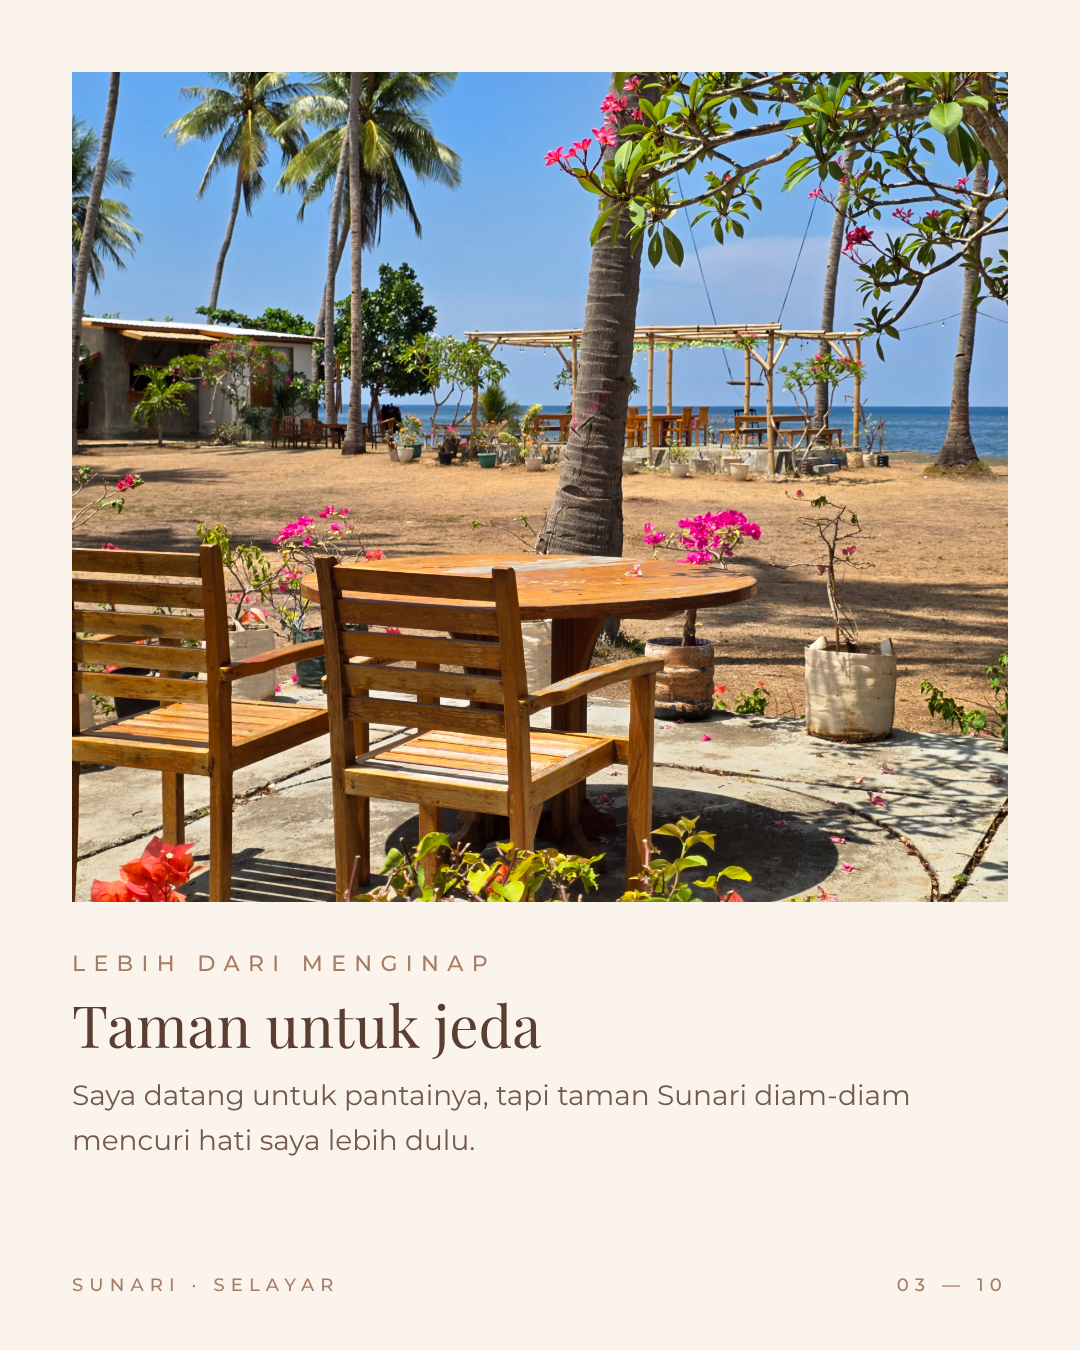
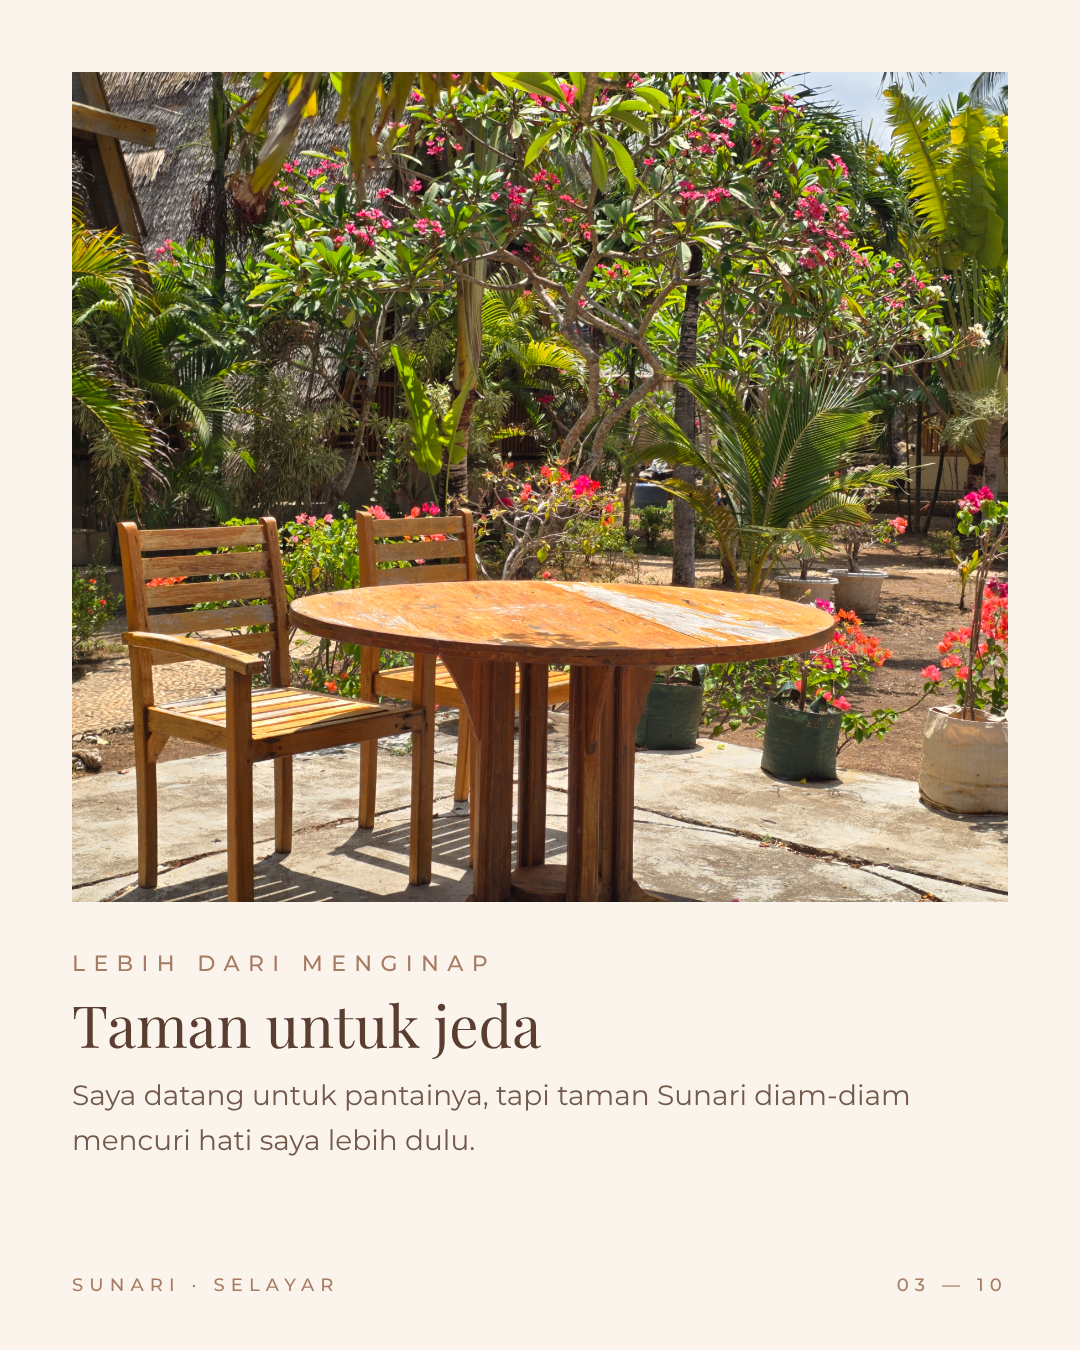
Lebih dari Menginap: slide 3 pakai foto taman kamboja
Claude-Session: https://claude.ai/code/session_01KeLc5cK8xRmfcoMz1j2mcH

diff --git a/social/kit.html b/social/kit.html
@@ -572,7 +572,7 @@ body{background:#ddd6cc;font-family:Montserrat,sans-serif;padding:40px;display:f
   <div class="foot"><span class="caps">SunaRi · Selayar</span><span class="caps">02 — 10</span></div>
 </div>
 <div class="tpl" id="p01-3">
-  <img class="ph" src="../assets/photos/taman/05-meja-taman-view-laut-gazebo.jpg" style="object-position:50% 55%" alt="">
+  <img class="ph" src="../assets/photos/taman/08-meja-taman-kamboja-a.jpg" style="object-position:50% 60%" alt="">
   <div class="txt"><div class="caps">Lebih dari Menginap</div><h2>Taman untuk jeda</h2><p>Saya datang untuk pantainya, tapi taman Sunari diam-diam mencuri hati saya lebih dulu.</p></div>
   <div class="foot"><span class="caps">SunaRi · Selayar</span><span class="caps">03 — 10</span></div>
 </div>

diff --git a/social/build_kit.py b/social/build_kit.py
@@ -372,7 +372,7 @@ parts.append(f'''<div class="tpl facts" id="faq-{NF}">
 FEED12 = [
  ("p01", "Lebih dari Menginap", "camp-1", [
    ("pantai/01-nelayan-pagi.jpg","50% 58%","Pagi yang pelan","Perahu nelayan mulai pulang dari laut, membawa hasil tangkapan dan senyum yang tulus."),
-   ("taman/05-meja-taman-view-laut-gazebo.jpg","50% 55%","Taman untuk jeda","Saya datang untuk pantainya, tapi taman Sunari diam-diam mencuri hati saya lebih dulu."),
+   ("taman/08-meja-taman-kamboja-a.jpg","50% 60%","Taman untuk jeda","Saya datang untuk pantainya, tapi taman Sunari diam-diam mencuri hati saya lebih dulu."),
    ("pantai/04-kursi-santai-bawah-pohon.jpg","50% 55%","Siang di bawah ketapang","Di bawah pohon yang teduh, waktu terasa berjalan lebih lambat dan lebih bersahabat."),
    ("aktivitas/01-kayak-sore.jpg","50% 55%","Mendayung saat sore","Bayangan pohon kelapa semakin panjang, tanda pertunjukan sore akan segera dimulai."),
    ("aktivitas/07-ayunan-gaun-merah-tengah.jpg","50% 60%","Ayunan menghadap senja","Menunggu senja di Sunari mengajarkan saya bahwa hal indah memang layak ditunggu."),
